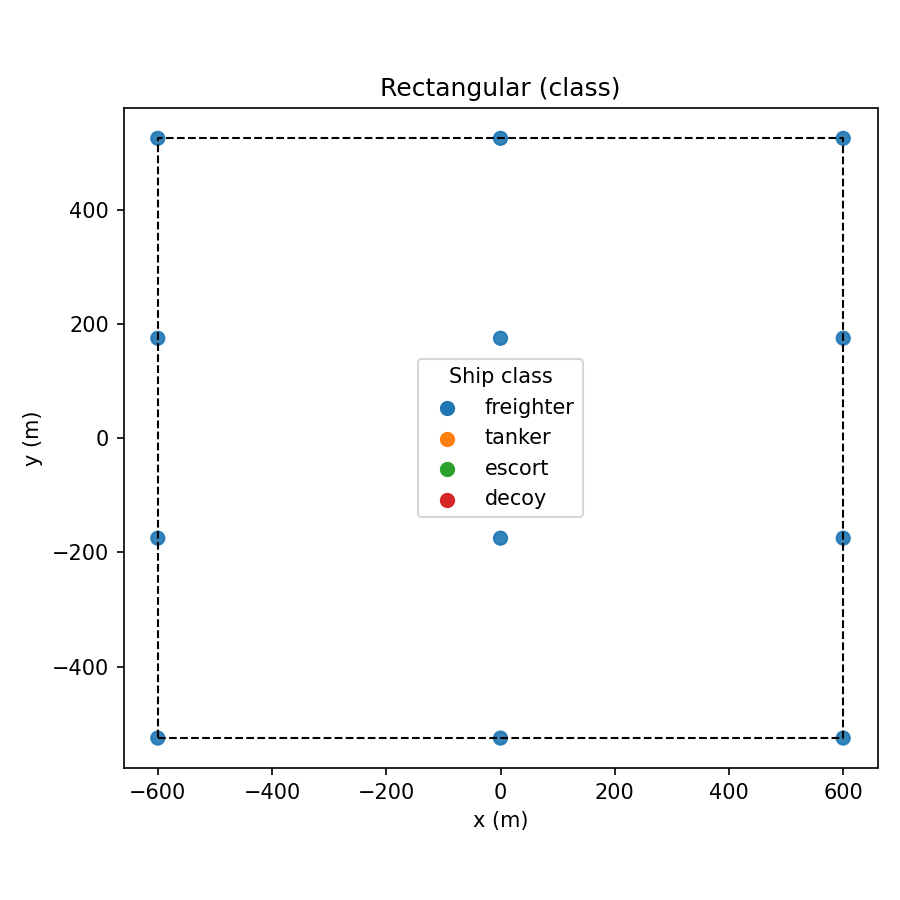
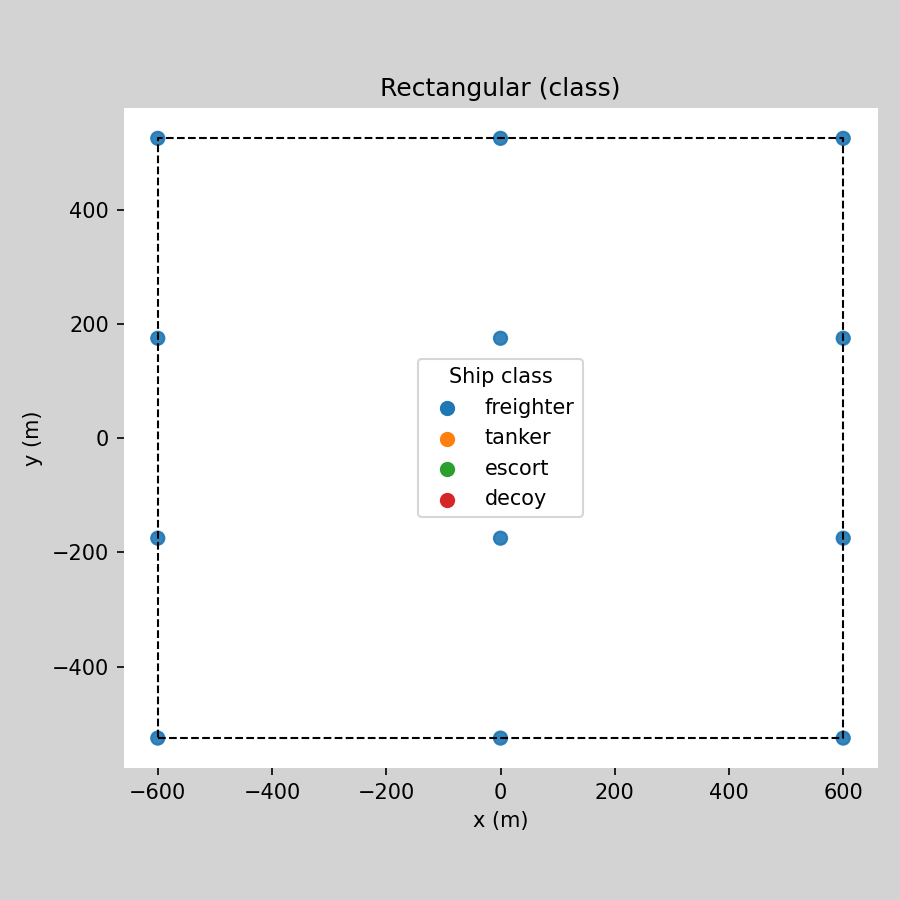
Work on Fixing Visuals (#1)

diff --git a/convoy_sim/viz.py b/convoy_sim/viz.py
@@ -1,11 +1,8 @@
 """Matplotlib-based plan-view visualization helpers (optional dependency)."""
 
 from __future__ import annotations
-
 from typing import Any, Literal
-
 import numpy as np
-
 from .entities import Ship, ShipClass
 
 
@@ -20,7 +17,7 @@ def _require_matplotlib() -> Any:
 def ship_color(
     ship: Ship,
     color_by: Literal["class", "value"] = "class",
-    cmap: str = "viridis",
+    cmap: str = "YlGnBu",
     *,
     value_range: tuple[float, float] | None = None,
 ) -> Any:
@@ -159,35 +156,42 @@ def plot_convoy_planview(
     footprint_padding: float = 0.0,
     ship_marker_size: float = 40.0,
     alpha: float = 0.9,
+    axes_facecolor: str = "#06768d",
+    value_cmap: str = "YlGnBu",
 ) -> Any:
     """Plot convoy ship centers in plan view."""
 
     plt = _require_matplotlib()
     if ax is None:
         _, ax = plt.subplots(figsize=(6, 6))
-
+    ax.set_facecolor(axes_facecolor)
     positions = np.array([ship.position for ship in ships], dtype=float)
-    colors = []
+    colors: list[Any] = []
     if color_by == "value":
         values = np.array([ship.value_weight for ship in ships], dtype=float)
         vmin = float(np.min(values)) if len(values) else 0.0
         vmax = float(np.max(values)) if len(values) else 1.0
         if vmax <= vmin:
             vmax = vmin + 1.0
-        colors = [
-            ship_color(ship, color_by="value", cmap="viridis", value_range=(vmin, vmax))
-            for ship in ships
-        ]
+        scatter = ax.scatter(
+            positions[:, 0],
+            positions[:, 1],
+            c=values,
+            cmap=value_cmap,
+            vmin=vmin,
+            vmax=vmax,
+            s=float(ship_marker_size),
+            alpha=float(alpha),
+        )
     else:
         colors = [ship_color(ship, color_by=color_by) for ship in ships]
-
-    scatter = ax.scatter(
-        positions[:, 0],
-        positions[:, 1],
-        c=colors,
-        s=float(ship_marker_size),
-        alpha=float(alpha),
-    )
+        scatter = ax.scatter(
+            positions[:, 0],
+            positions[:, 1],
+            c=colors,
+            s=float(ship_marker_size),
+            alpha=float(alpha),
+        )
 
     if show_labels:
         for ship in ships:
@@ -214,7 +218,15 @@ def plot_convoy_planview(
         }.items():
             handles.append(ax.scatter([], [], c=color, s=ship_marker_size))
             labels.append(ship_class.value)
-        ax.legend(handles, labels, title="Ship class")
+        ax.legend(
+            handles,
+            labels,
+            title="Ship class",
+            loc="lower center",
+            bbox_to_anchor=(0.5, -0.18),
+            ncol=len(labels),
+            frameon=False,
+        )
     else:
         plt.colorbar(scatter, ax=ax, label="Value weight")
     return ax
@@ -299,8 +311,11 @@ def save_planview_png(ships: list[Ship], path: str, **plot_kwargs) -> str:
     """Save a plan-view figure to disk and return the path."""
 
     plt = _require_matplotlib()
-    fig, ax = plt.subplots(figsize=(6, 6))
+    fig, ax = plt.subplots(figsize=(6, 6), facecolor="lightgrey")
     plot_convoy_planview(ships, ax=ax, **plot_kwargs)
+    for spine in plt.gca().spines.values():
+        spine.set_visible(False)
+    fig.subplots_adjust(bottom=0.22)
     fig.tight_layout()
     fig.savefig(path, dpi=150)
     plt.close(fig)

diff --git a/convoy_sim/viz_attack.py b/convoy_sim/viz_attack.py
@@ -325,6 +325,8 @@ def save_attack_animation_mp4(
         from matplotlib import animation  # type: ignore
     except ImportError as exc:  # pragma: no cover - depends on environment
         raise ImportError("matplotlib animation support is required for MP4 output") from exc
+    if not animation.writers.is_available("ffmpeg"):
+        raise ImportError("ffmpeg is required for MP4 output; use save_attack_frames instead")
 
     if fps <= 0:
         raise ValueError("fps must be positive")
@@ -347,7 +349,8 @@ def save_attack_animation_mp4(
         return ax
 
     anim = animation.FuncAnimation(fig, _update, frames=len(times), interval=1000 / fps)
-    anim.save(out_path, fps=fps)
+    writer = animation.FFMpegWriter(fps=fps)
+    anim.save(out_path, writer=writer)
     plt.close(fig)
     return out_path
 

diff --git a/experiments/plot_layout.py b/experiments/plot_layout.py
@@ -1,11 +1,8 @@
 """Render basic convoy layout plan views to PNG."""
 
 from __future__ import annotations
-
 from pathlib import Path
-
 import numpy as np
-
 from convoy_sim.layouts import make_rectangular_convoy, make_staggered_convoy
 from convoy_sim.viz import save_planview_png
 

diff --git a/docs/Visuals.md b/docs/Visuals.md
@@ -1,7 +1,7 @@
 Visuals Guide
 
 Overview
-This guide lists the available visualization scripts and what they render. All outputs are saved under `results/` and are optional; matplotlib must be installed for plotting functions.
+This guide lists the available visualization scripts and what they render. All outputs are saved under `results/` and are optional; matplotlib must be installed for plotting functions. ffmpeg needed for MP4 Visuals. 
 
 Plan-View Layouts (E1)
 - Script: `python -m experiments.plot_layout`
